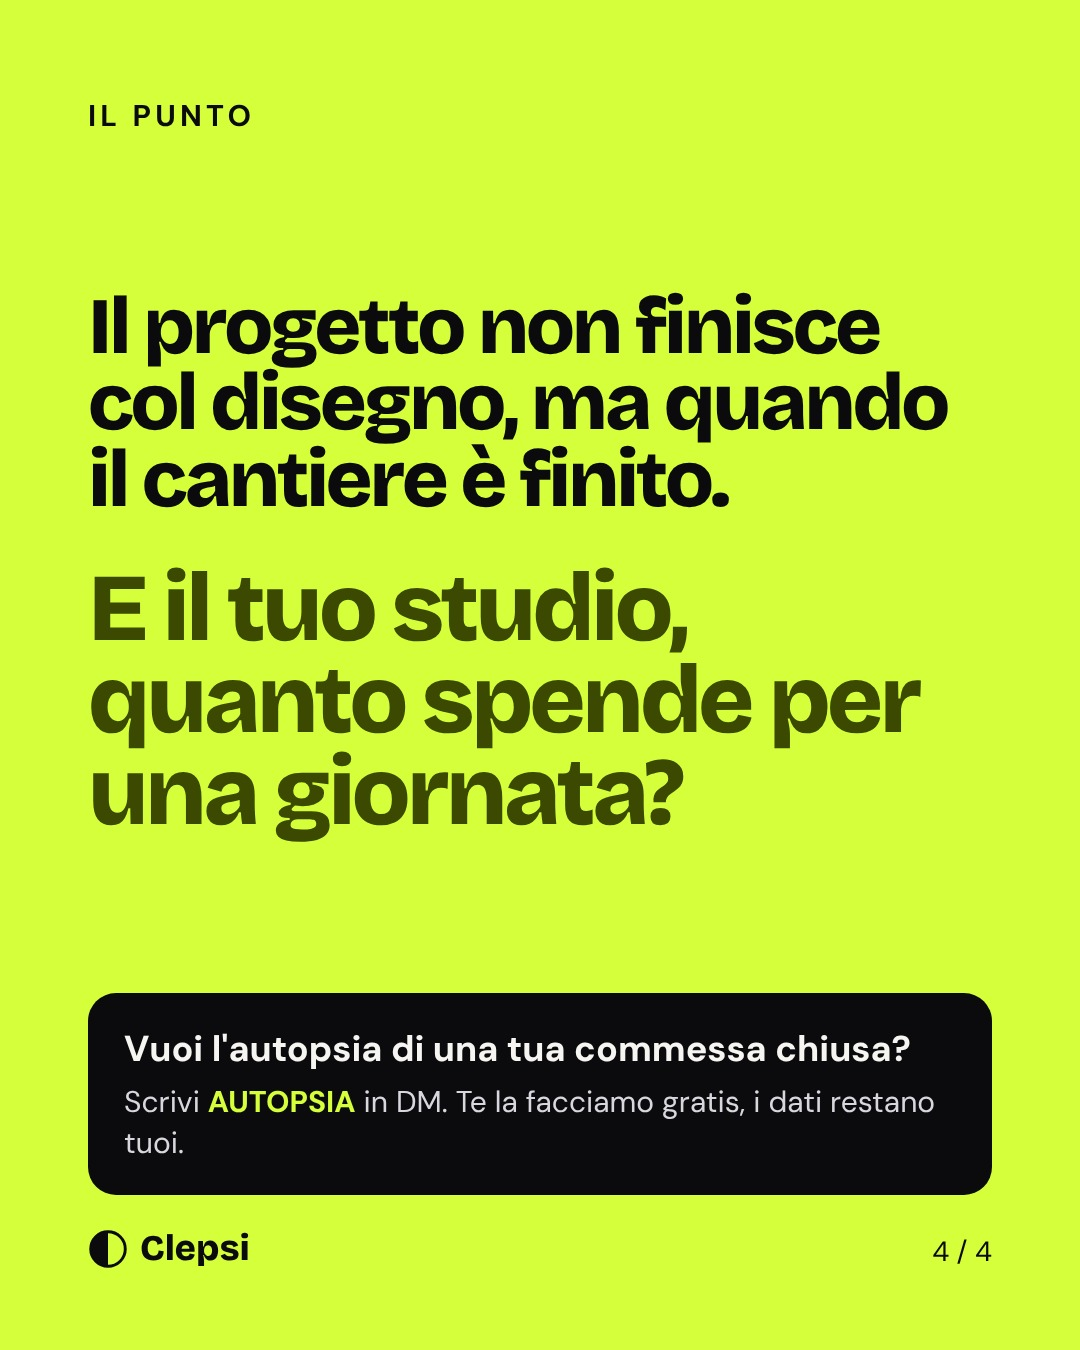
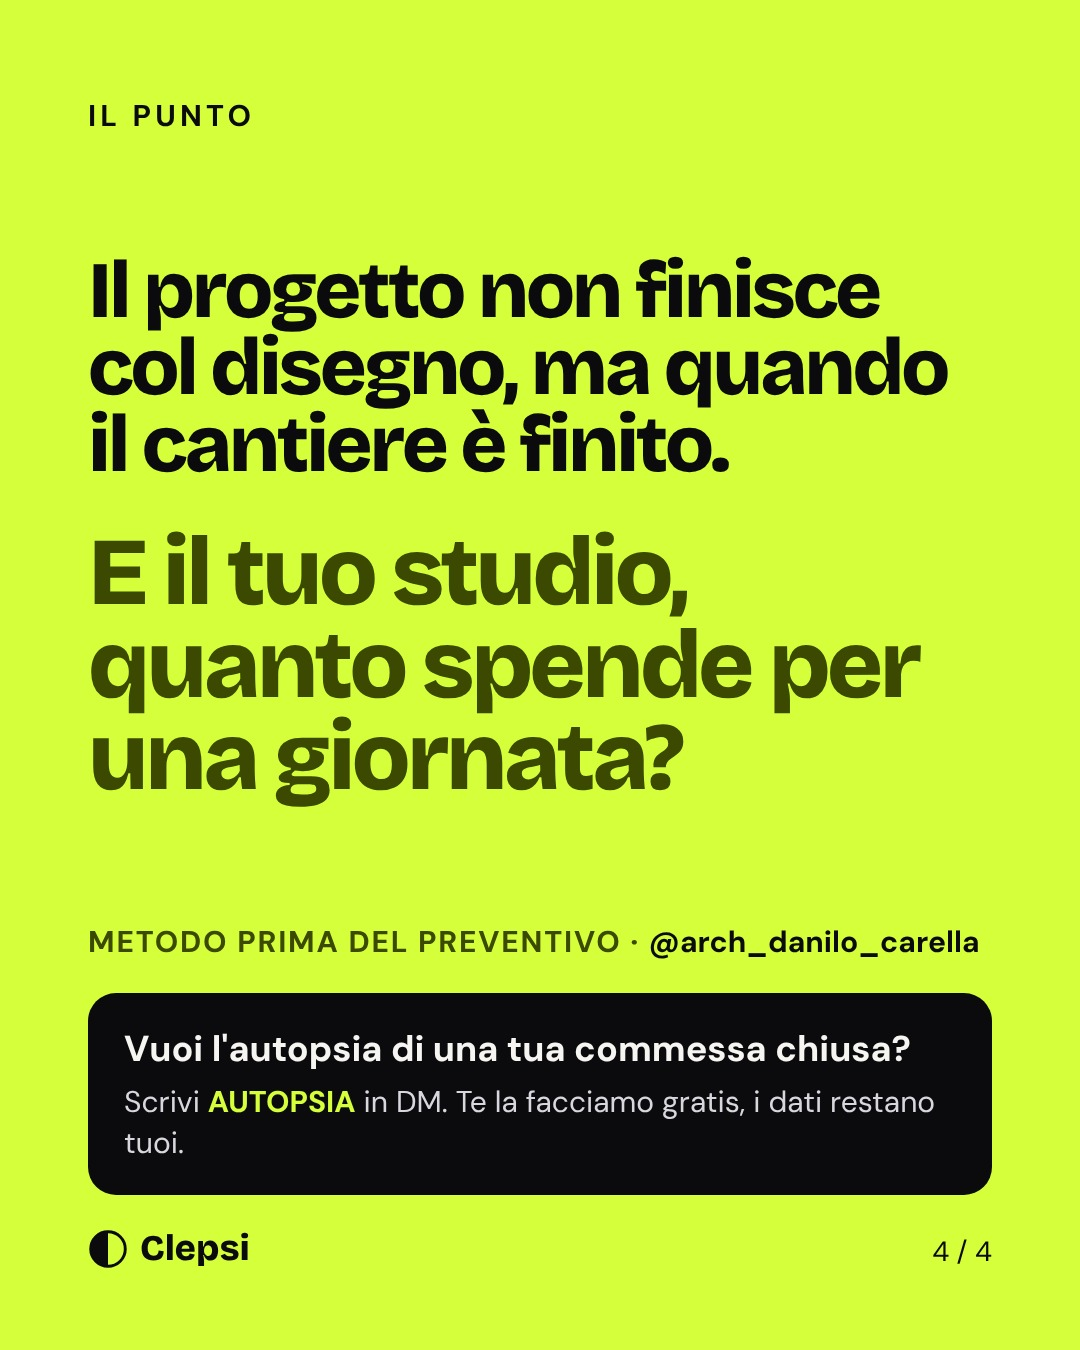
Autopsia Danilo: elementi del suo profilo (progetta, coordina, realizza; parcella scomposta; metodo prima del preventivo)
Claude-Session: https://claude.ai/code/session_01WRBMKL9mWBeZBFDMMn3MKh

Changed region(s): [[0.0611, 0.1867, 0.8861, 0.6222], [0.0611, 0.6844, 0.9167, 0.7156]]

diff --git a/grafiche/danilo-1.dc.html b/grafiche/danilo-1.dc.html
@@ -19,7 +19,7 @@
 <div style="display: flex; flex-direction: column; gap: 32px">
 <span style="font-family: 'Bricolage Grotesque', sans-serif; font-weight: 800; font-size: 92px; line-height: 0.95; letter-spacing: -0.04em">Una ristrutturazione.</span>
 <span style="font-family: 'Bricolage Grotesque', sans-serif; font-weight: 800; font-size: 92px; line-height: 0.95; letter-spacing: -0.04em; color: #4A5A00">8.000 € di parcella.</span>
-<span style="font-size: 38px; line-height: 1.35; color: #2E2D33; max-width: 840px">Un architetto, sei mesi, dal rilievo alla fine del cantiere. Quante giornate ci sono dentro, davvero?</span>
+<span style="font-size: 38px; line-height: 1.35; color: #2E2D33; max-width: 840px">Progetta, coordina, realizza: sei mesi dal rilievo alla fine del cantiere. Quante giornate ci sono dentro, davvero?</span>
 </div>
 <div style="display: flex; align-items: flex-end; justify-content: space-between; gap: 40px; font-size: 28px; color: #55545C">
 <span>Con <span style="font-weight: 700; color: #121214">@arch_danilo_carella</span> · Scorri</span>

diff --git a/grafiche/danilo-4.dc.html b/grafiche/danilo-4.dc.html
@@ -18,6 +18,7 @@
 <span style="font-family: 'Bricolage Grotesque', sans-serif; font-weight: 800; line-height: 0.96; letter-spacing: -0.04em; font-size: 96px; color: #3B4A00">E il tuo studio, quanto spende per una giornata?</span>
 </div>
 <div style="display: flex; flex-direction: column; gap: 32px">
+<span style="font-size: 30px; font-weight: 700; letter-spacing: 0.06em; text-transform: uppercase; color: #3B4A00">Metodo prima del preventivo · <span style="text-transform: none; letter-spacing: 0; color: #0B0B0D">@arch_danilo_carella</span></span>
 <div style="display: flex; flex-direction: column; gap: 10px; padding: 32px 36px; border-radius: 28px; background: #0B0B0D; color: #F6F5F1">
 <span style="font-size: 36px; font-weight: 700">Vuoi l'autopsia di una tua commessa chiusa?</span>
 <span style="font-size: 30px; line-height: 1.35; color: #D8D7DE">Scrivi <span style="color: #D4FF3A; font-weight: 700">AUTOPSIA</span> in DM. Te la facciamo gratis, i dati restano tuoi.</span>

diff --git a/grafiche/danilo-2.dc.html b/grafiche/danilo-2.dc.html
@@ -13,7 +13,7 @@
 </helmet>
 <div style="width: 1080px; height: 1350px; box-sizing: border-box; padding: 96px 88px 80px; font-family: 'DM Sans', sans-serif; display: flex; flex-direction: column; justify-content: space-between; background: #0B0B0D; color: #F6F5F1">
 <div style="display: flex; align-items: center; justify-content: space-between; gap: 24px">
-<span style="font-size: 30px; font-weight: 700; letter-spacing: 0.14em; text-transform: uppercase; color: #D4FF3A">Dove sono finite le giornate</span>
+<span style="font-size: 30px; font-weight: 700; letter-spacing: 0.14em; text-transform: uppercase; color: #D4FF3A">La parcella, scomposta</span>
 <span style="white-space: nowrap; padding: 10px 20px; border-radius: 24px; border: 2px solid #55545C; font-size: 24px; font-weight: 700; color: #D8D7DE">Caso reale</span>
 </div>
 <div style="display: flex; flex-direction: column; gap: 36px">
